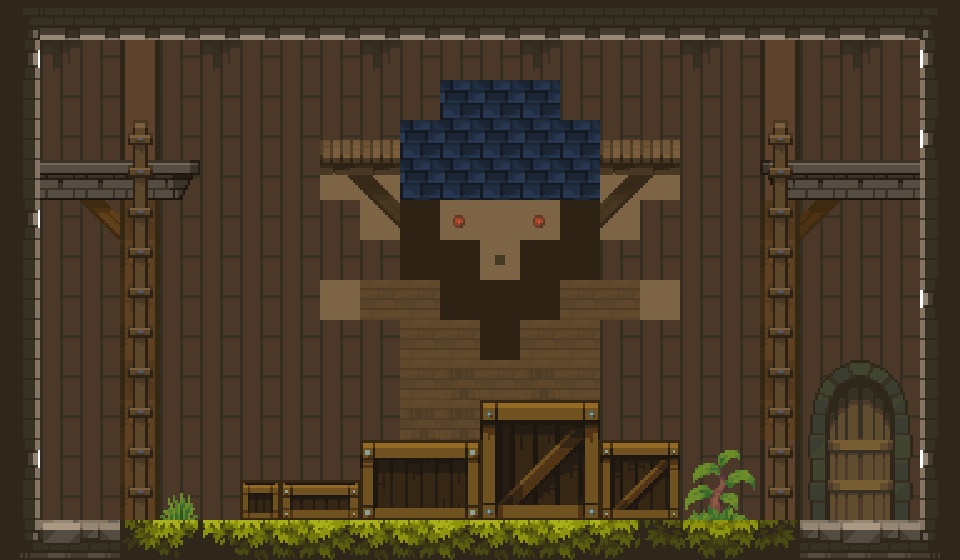
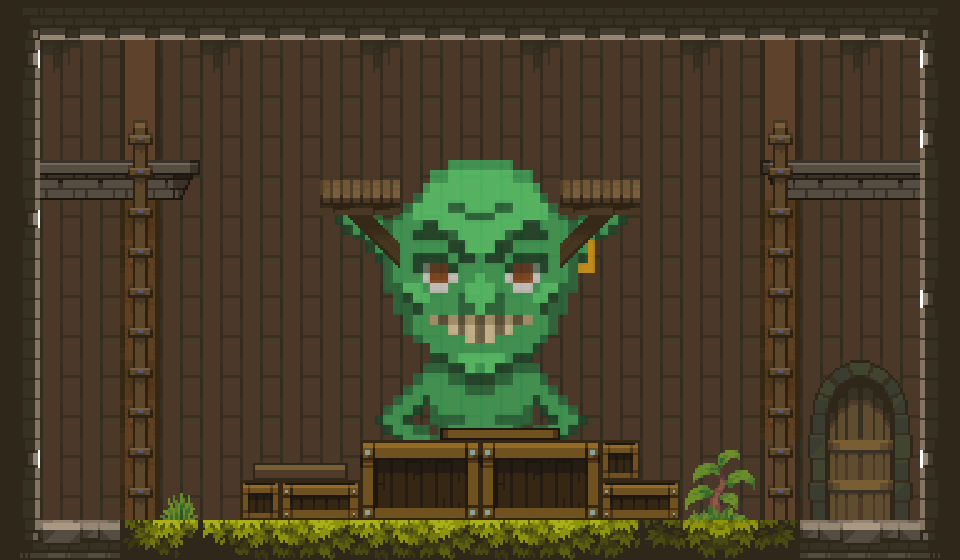
Boss Goblin was added to his level

diff --git a/entities/Player.js b/entities/Player.js
@@ -1,31 +1,12 @@
 import { MovementController } from "../controllers/MovementController.js";
 import { Sprite } from "./Sprite.js";
 import { doors, ladders, levelCollisionsCells } from "../data/levelsData.js";
+import { context } from "../main.js";
 
 export class Player extends Sprite {
-  constructor({
-    imgSrc,
-    x,
-    y,
-    width,
-    height,
-    animations,
-    frameRate,
-    framesSpeed,
-    loop,
-    autoplay,
-  }) {
+  constructor(playerOptions) {
     super({
-      imgSrc,
-      x,
-      y,
-      width,
-      height,
-      animations,
-      frameRate,
-      framesSpeed,
-      loop,
-      autoplay,
+      ...playerOptions,
     });
 
     this.velocity = {
@@ -54,18 +35,8 @@ export class Player extends Sprite {
     if (this.doWeCheckCollisions === true) {
       this.handleVerticalCollisions(levelCollisionsCells);
     }
-
+    // this.drawHitboxAndBorders();
     this.doWeCheckCollisions = true;
-    //Отрисовка границ хитбокса и игрока
-    // context.fillStyle = "rgba(0,0,255,0.3)";
-    // context.fillRect(this.x, this.y, this.width, this.height);
-    // context.fillStyle = "rgba(0,255,0,0.3)";
-    // context.fillRect(
-    //   this.hitbox.x,
-    //   this.hitbox.y,
-    //   this.hitbox.width,
-    //   this.hitbox.height,
-    // );
   }
 
   checkCollisions(collisionBlock) {
@@ -278,5 +249,17 @@ export class Player extends Sprite {
     this.framesSpeed = this.animations[name].framesSpeed;
     this.loop = this.animations[name].loop;
     this.currentAnimation = this.animations[name];
+  }
+
+  drawHitboxAndBorders() {
+    context.fillStyle = "rgba(0,0,255,0.3)";
+    context.fillRect(this.x, this.y, this.width, this.height);
+    context.fillStyle = "rgba(0,255,0,0.3)";
+    context.fillRect(
+      this.hitbox.x,
+      this.hitbox.y,
+      this.hitbox.width,
+      this.hitbox.height,
+    );
   }
 }

diff --git a/controllers/CanvasController.js b/controllers/CanvasController.js
@@ -1,6 +1,12 @@
 import { canvas, context, player } from "../main.js";
 
-import { doors, levelBackground } from "../data/levelsData.js";
+import {
+  boss,
+  doors,
+  ladders,
+  levelBackground,
+  levelCollisionsCells,
+} from "../data/levelsData.js";
 export class CanvasController {
   constructor() {}
 
@@ -17,17 +23,15 @@ export class CanvasController {
       // Код анимации
       this.clear();
       levelBackground.draw();
-      // levelCollisionsCells.forEach((collisionCell) => {
-      //   collisionCell.draw();
-      // });
 
-      doors.forEach((door) => {
-        door.draw();
-      });
+      // this.drawCollisions();
+      // this.drawDoors();
+      // this.drawLaddersCollisions();
 
-      // ladders.forEach((ladder) => {
-      //   ladder.draw();
-      // });
+      if (boss) {
+        boss.draw();
+        boss.update();
+      }
 
       player.draw();
       player.update();
@@ -42,4 +46,22 @@ export class CanvasController {
     context.fillStyle = "white";
     context.fillRect(0, 0, canvas.width, canvas.height);
   };
+
+  static drawCollisions() {
+    levelCollisionsCells.forEach((collisionCell) => {
+      collisionCell.draw();
+    });
+  }
+
+  static drawDoors() {
+    doors.forEach((door) => {
+      door.draw();
+    });
+  }
+
+  static drawLaddersCollisions() {
+    ladders.forEach((ladder) => {
+      ladder.draw();
+    });
+  }
 }

diff --git a/data/collisionsLayout.js b/data/collisionsLayout.js
@@ -22,14 +22,14 @@ export const collisionsLevel1 = `
   1, 0, 0, 0, 0, 0, 0, 0, 0, 0, 0, 0, 0, 0, 0, 0, 0, 0, 0, 0, 0, 0, 0, 1,
   1, 0, 0, 0, 0, 0, 0, 0, 0, 0, 0, 0, 0, 0, 0, 0, 0, 0, 0, 0, 0, 0, 0, 1,
   1, 0, 0, 0, 0, 0, 0, 0, 0, 0, 0, 0, 0, 0, 0, 0, 0, 0, 0, 0, 0, 0, 0, 1,
-  1, 1, 1, 1, 1, 0, 0, 0, 1, 1, 0, 0, 0, 0, 0, 1, 1, 0, 0, 1, 1, 1, 1, 1,
+  1, 1, 1, 1, 1, 0, 0, 0, 0, 0, 0, 0, 0, 0, 0, 0, 0, 0, 0, 1, 1, 1, 1, 1,
+  1, 0, 0, 0, 0, 0, 0, 0, 1, 1, 0, 0, 0, 0, 1, 1, 0, 0, 0, 0, 0, 0, 0, 1,
   1, 0, 0, 0, 0, 0, 0, 0, 0, 0, 0, 0, 0, 0, 0, 0, 0, 0, 0, 0, 0, 0, 0, 1,
   1, 0, 0, 0, 0, 0, 0, 0, 0, 0, 0, 0, 0, 0, 0, 0, 0, 0, 0, 0, 0, 0, 0, 1,
   1, 0, 0, 0, 0, 0, 0, 0, 0, 0, 0, 0, 0, 0, 0, 0, 0, 0, 0, 0, 0, 0, 0, 1,
   1, 0, 0, 0, 0, 0, 0, 0, 0, 0, 0, 0, 0, 0, 0, 0, 0, 0, 0, 0, 0, 0, 0, 1,
   1, 0, 0, 0, 0, 0, 0, 0, 0, 0, 0, 0, 0, 0, 0, 0, 0, 0, 0, 0, 0, 0, 0, 1,
-  1, 0, 0, 0, 0, 0, 0, 0, 0, 0, 0, 0, 1, 1, 1, 0, 0, 0, 0, 0, 0, 0, 0, 1,
-  1, 0, 0, 0, 0, 0, 0, 0, 0, 1, 1, 1, 0, 0, 0, 1, 1, 0, 0, 0, 0, 0, 0, 1,
+  1, 0, 0, 0, 0, 0, 0, 0, 0, 1, 1, 1, 1, 1, 1, 1, 0, 0, 0, 0, 0, 0, 0, 1,
   1, 0, 0, 0, 0, 0, 1, 1, 1, 0, 0, 0, 0, 0, 0, 0, 1, 0, 0, 0, 0, 0, 0, 1,
   1, 1, 1, 1, 1, 1, 0, 0, 0, 0, 0, 0, 0, 0, 0, 0, 0, 1, 1, 1, 1, 1, 1, 1,`
   .trim()

diff --git a/data/levelsData.js b/data/levelsData.js
@@ -2,12 +2,15 @@ import { Sprite } from "../entities/Sprite.js";
 import { createCollisionsArray } from "../utils/CollisionsUtils.js";
 import { collisionsLevel0, collisionsLevel1 } from "./collisionsLayout.js";
 import { player } from "../main.js";
+import { Boss } from "../entities/Boss.js";
 
 export let levelCollisionsCells;
 export let levelBackground;
 export let doors;
 export let ladders;
+export let boss;
 export let level = 1;
+
 export const levelIncrease = () => {
   if (level === Object.keys(levels).length) {
     level = 1;
@@ -47,6 +50,7 @@ export let levels = {
       ];
 
       ladders = [];
+      boss = null;
     },
   },
   2: {
@@ -91,6 +95,16 @@ export let levels = {
           height: 280,
         }),
       ];
+
+      boss = new Boss({
+        imgSrc: "./data/images/goblin_sprites/Goblin_Inaction_Right.png",
+        x: 650,
+        y: 60,
+        frameRate: 4,
+        framesSpeed: 14,
+        loop: true,
+        autoplay: true,
+      });
     },
   },
 };

diff --git a/main.js b/main.js
@@ -1,11 +1,12 @@
-import { Player } from "./entities/Player.js";
 import { CanvasController } from "./controllers/CanvasController.js";
 import { MovementController } from "./controllers/MovementController.js";
 import { animationsData } from "./data/animationsData.js";
 import { level, levels } from "./data/levelsData.js";
+import { Player } from "./entities/Player.js";
 
 export const canvas = document.querySelector("canvas");
 export const context = canvas.getContext("2d");
+
 export const player = new Player({
   imgSrc: "./data/images/player_sprites/Player_Inaction_Right.png",
   x: 100,
@@ -15,7 +16,6 @@ export const player = new Player({
   framesSpeed: 15,
   loop: true,
 });
-
 canvas.width = 40 * 24; //1024
 canvas.height = 40 * 14; //576
 

diff --git a/entities/Boss.js b/entities/Boss.js
@@ -1,0 +1,23 @@
+import { Player } from "./Player.js";
+
+export class Boss extends Player {
+  constructor(bossOptions) {
+    super({
+      ...bossOptions,
+    });
+  }
+
+  update() {
+    super.update();
+    this.jump();
+  }
+
+  updateHitbox() {
+    this.hitbox = {
+      x: this.x + 20,
+      y: this.y,
+      width: 50,
+      height: 100,
+    };
+  }
+}
